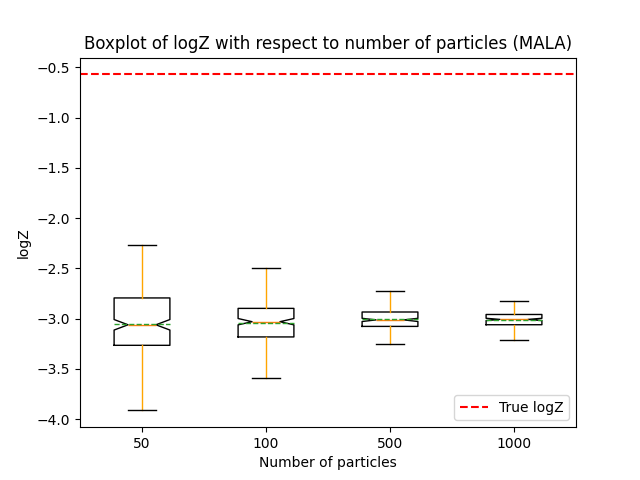
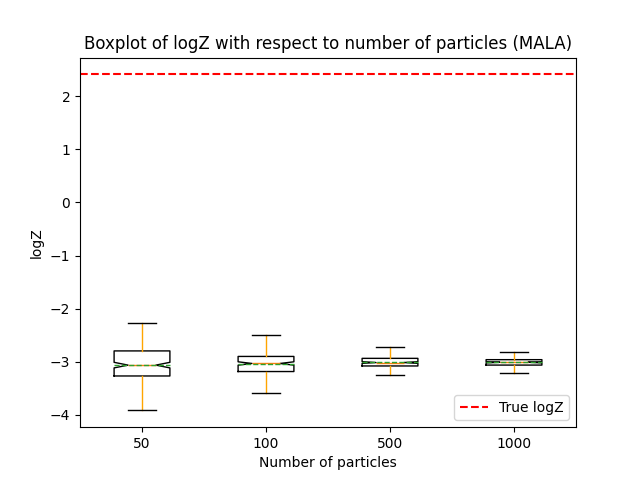
updated logZ calculation

diff --git a/mcjax/proba/gaussian.py b/mcjax/proba/gaussian.py
@@ -30,13 +30,13 @@ class IsotropicGauss(LogDensity):
         self._log_Z = 0.5 * self.dim * jnp.log(2 * jnp.pi) + 0.5*jnp.abs(logdet)
 
     def logdensity(self, x):
-        return -0.5 * jnp.sum(jnp.square((x - self.mu[None, :]) / self.sigma)) 
+        return -0.5 * jnp.sum(jnp.square((x - self.mu[None, :]) / self.sigma)) - self._log_Z
     
     def batch(
             self,
             x_batch,   # (B, D): B batch size, D dimension
             ):
-        return -0.5 * jnp.sum(jnp.square((x_batch - self.mu[None, :]) / self.sigma), axis=-1) 
+        return -0.5 * jnp.sum(jnp.square((x_batch - self.mu[None, :]) / self.sigma), axis=-1)  - self._log_Z
     
     def grad(self, x):
         return -(x - self.mu) / self.sigma**2
